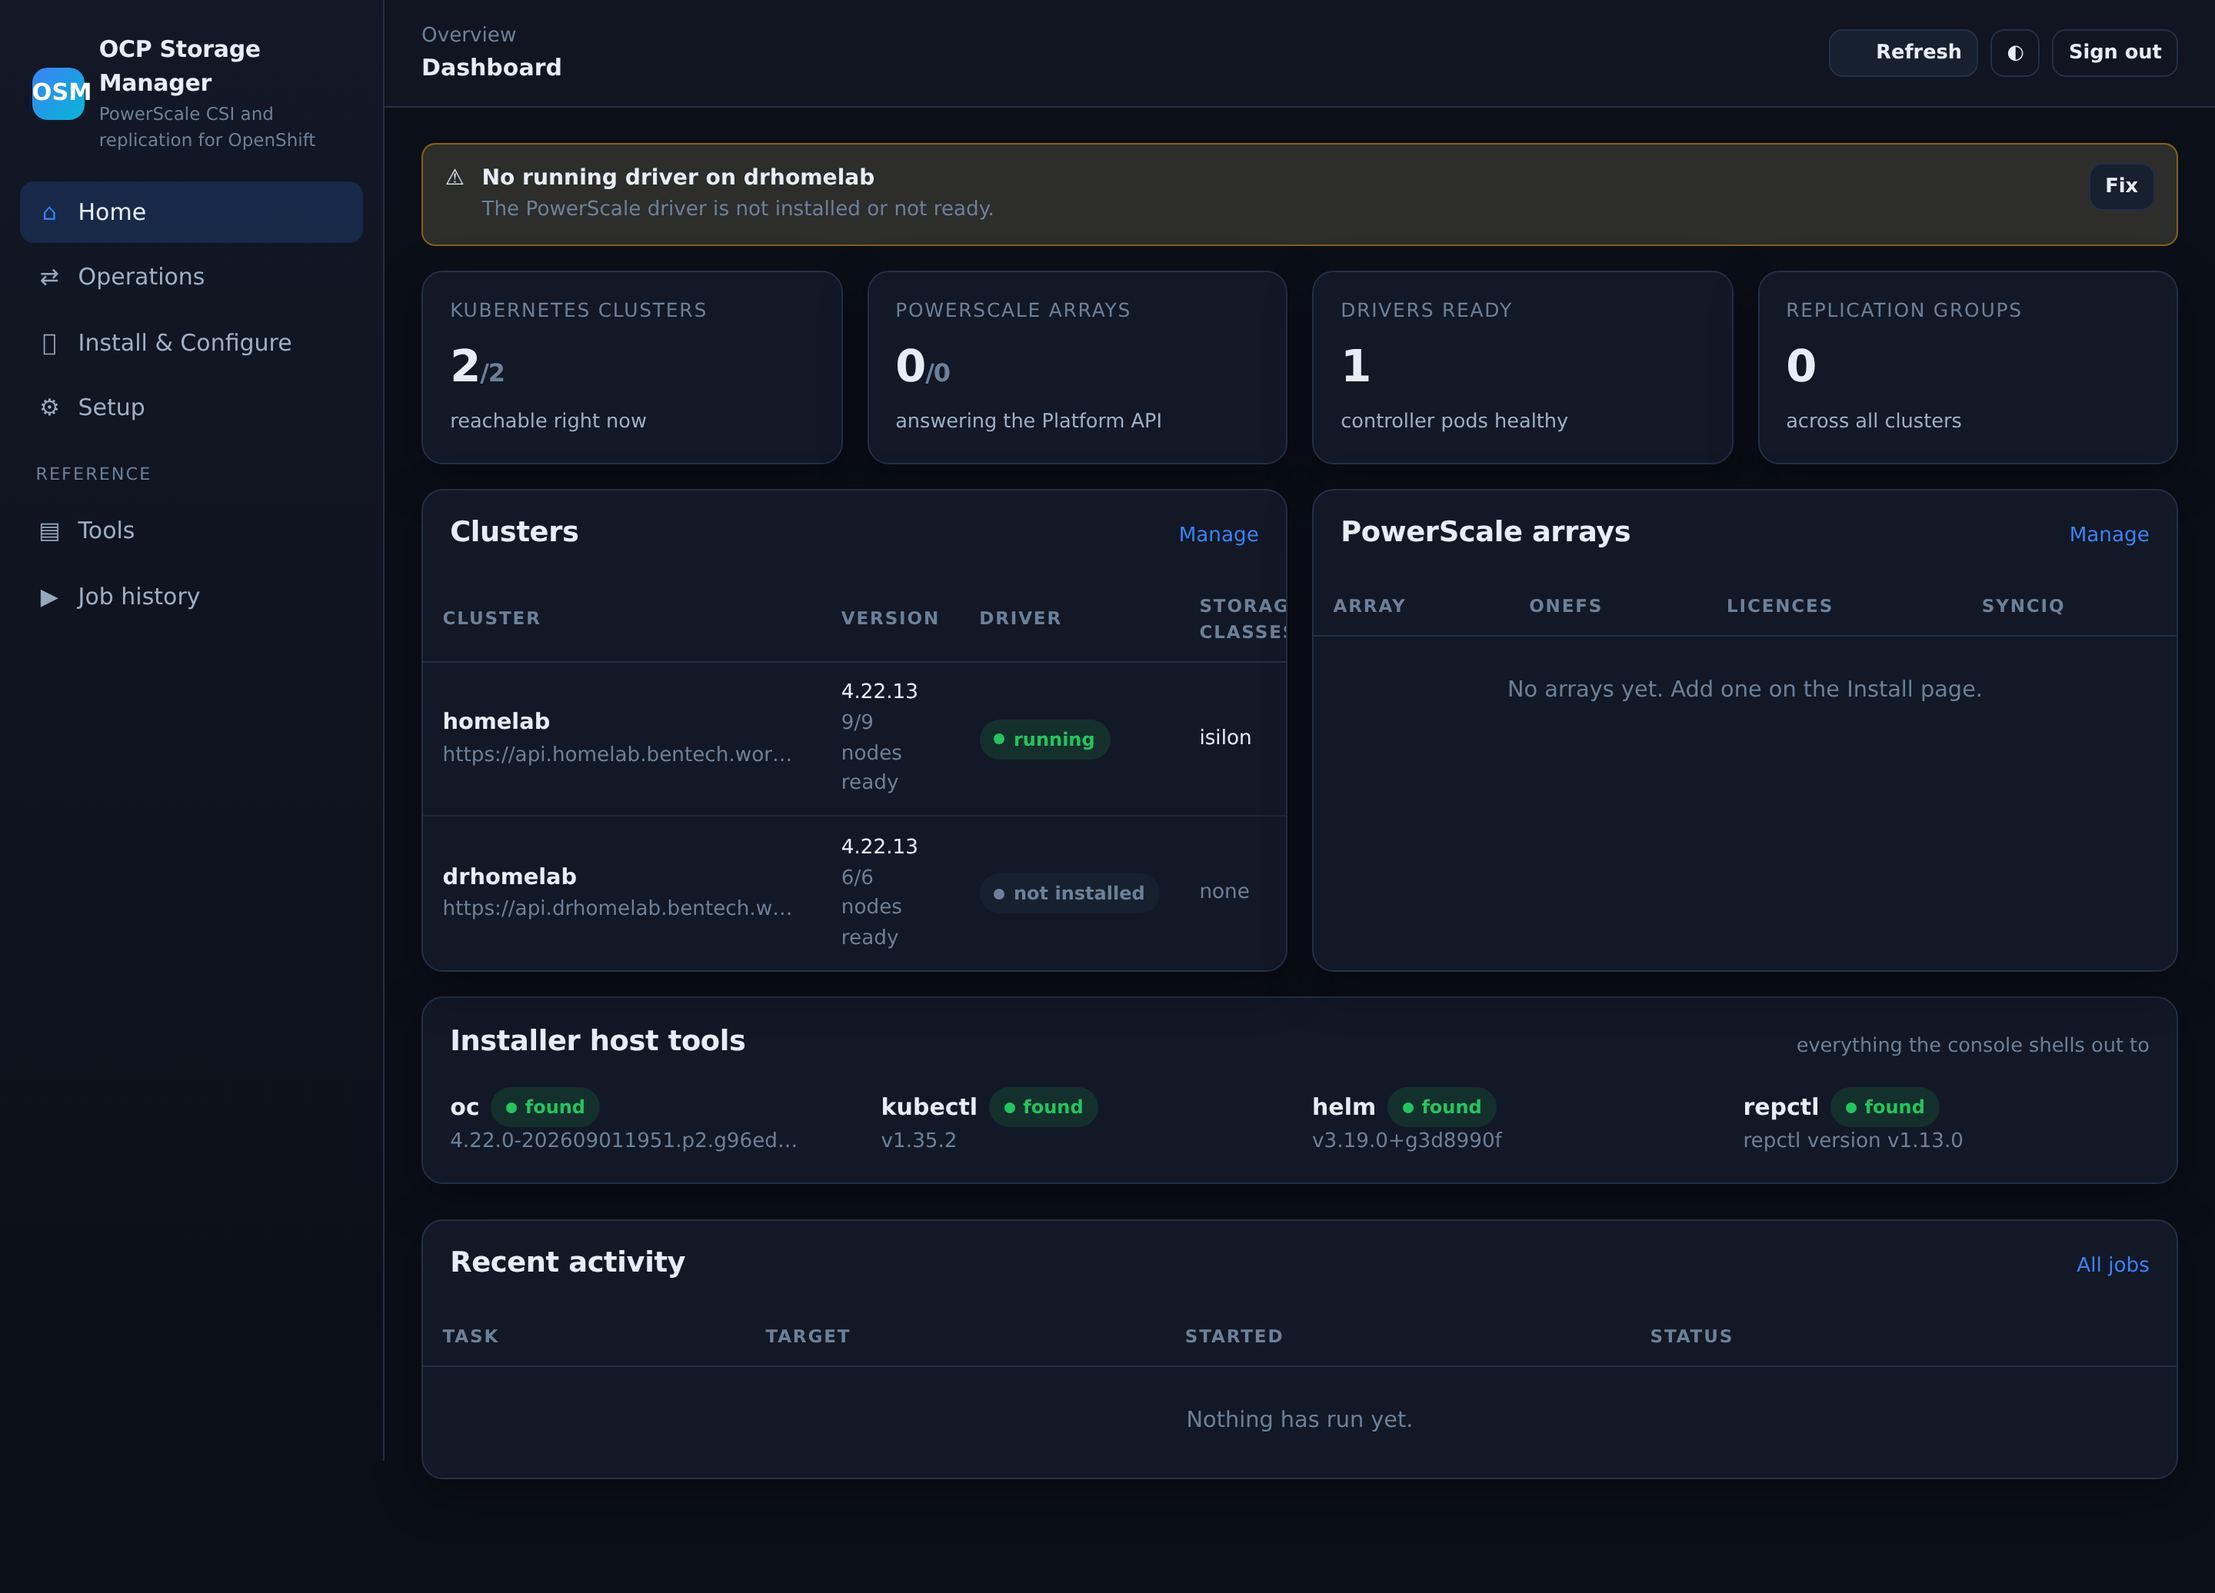
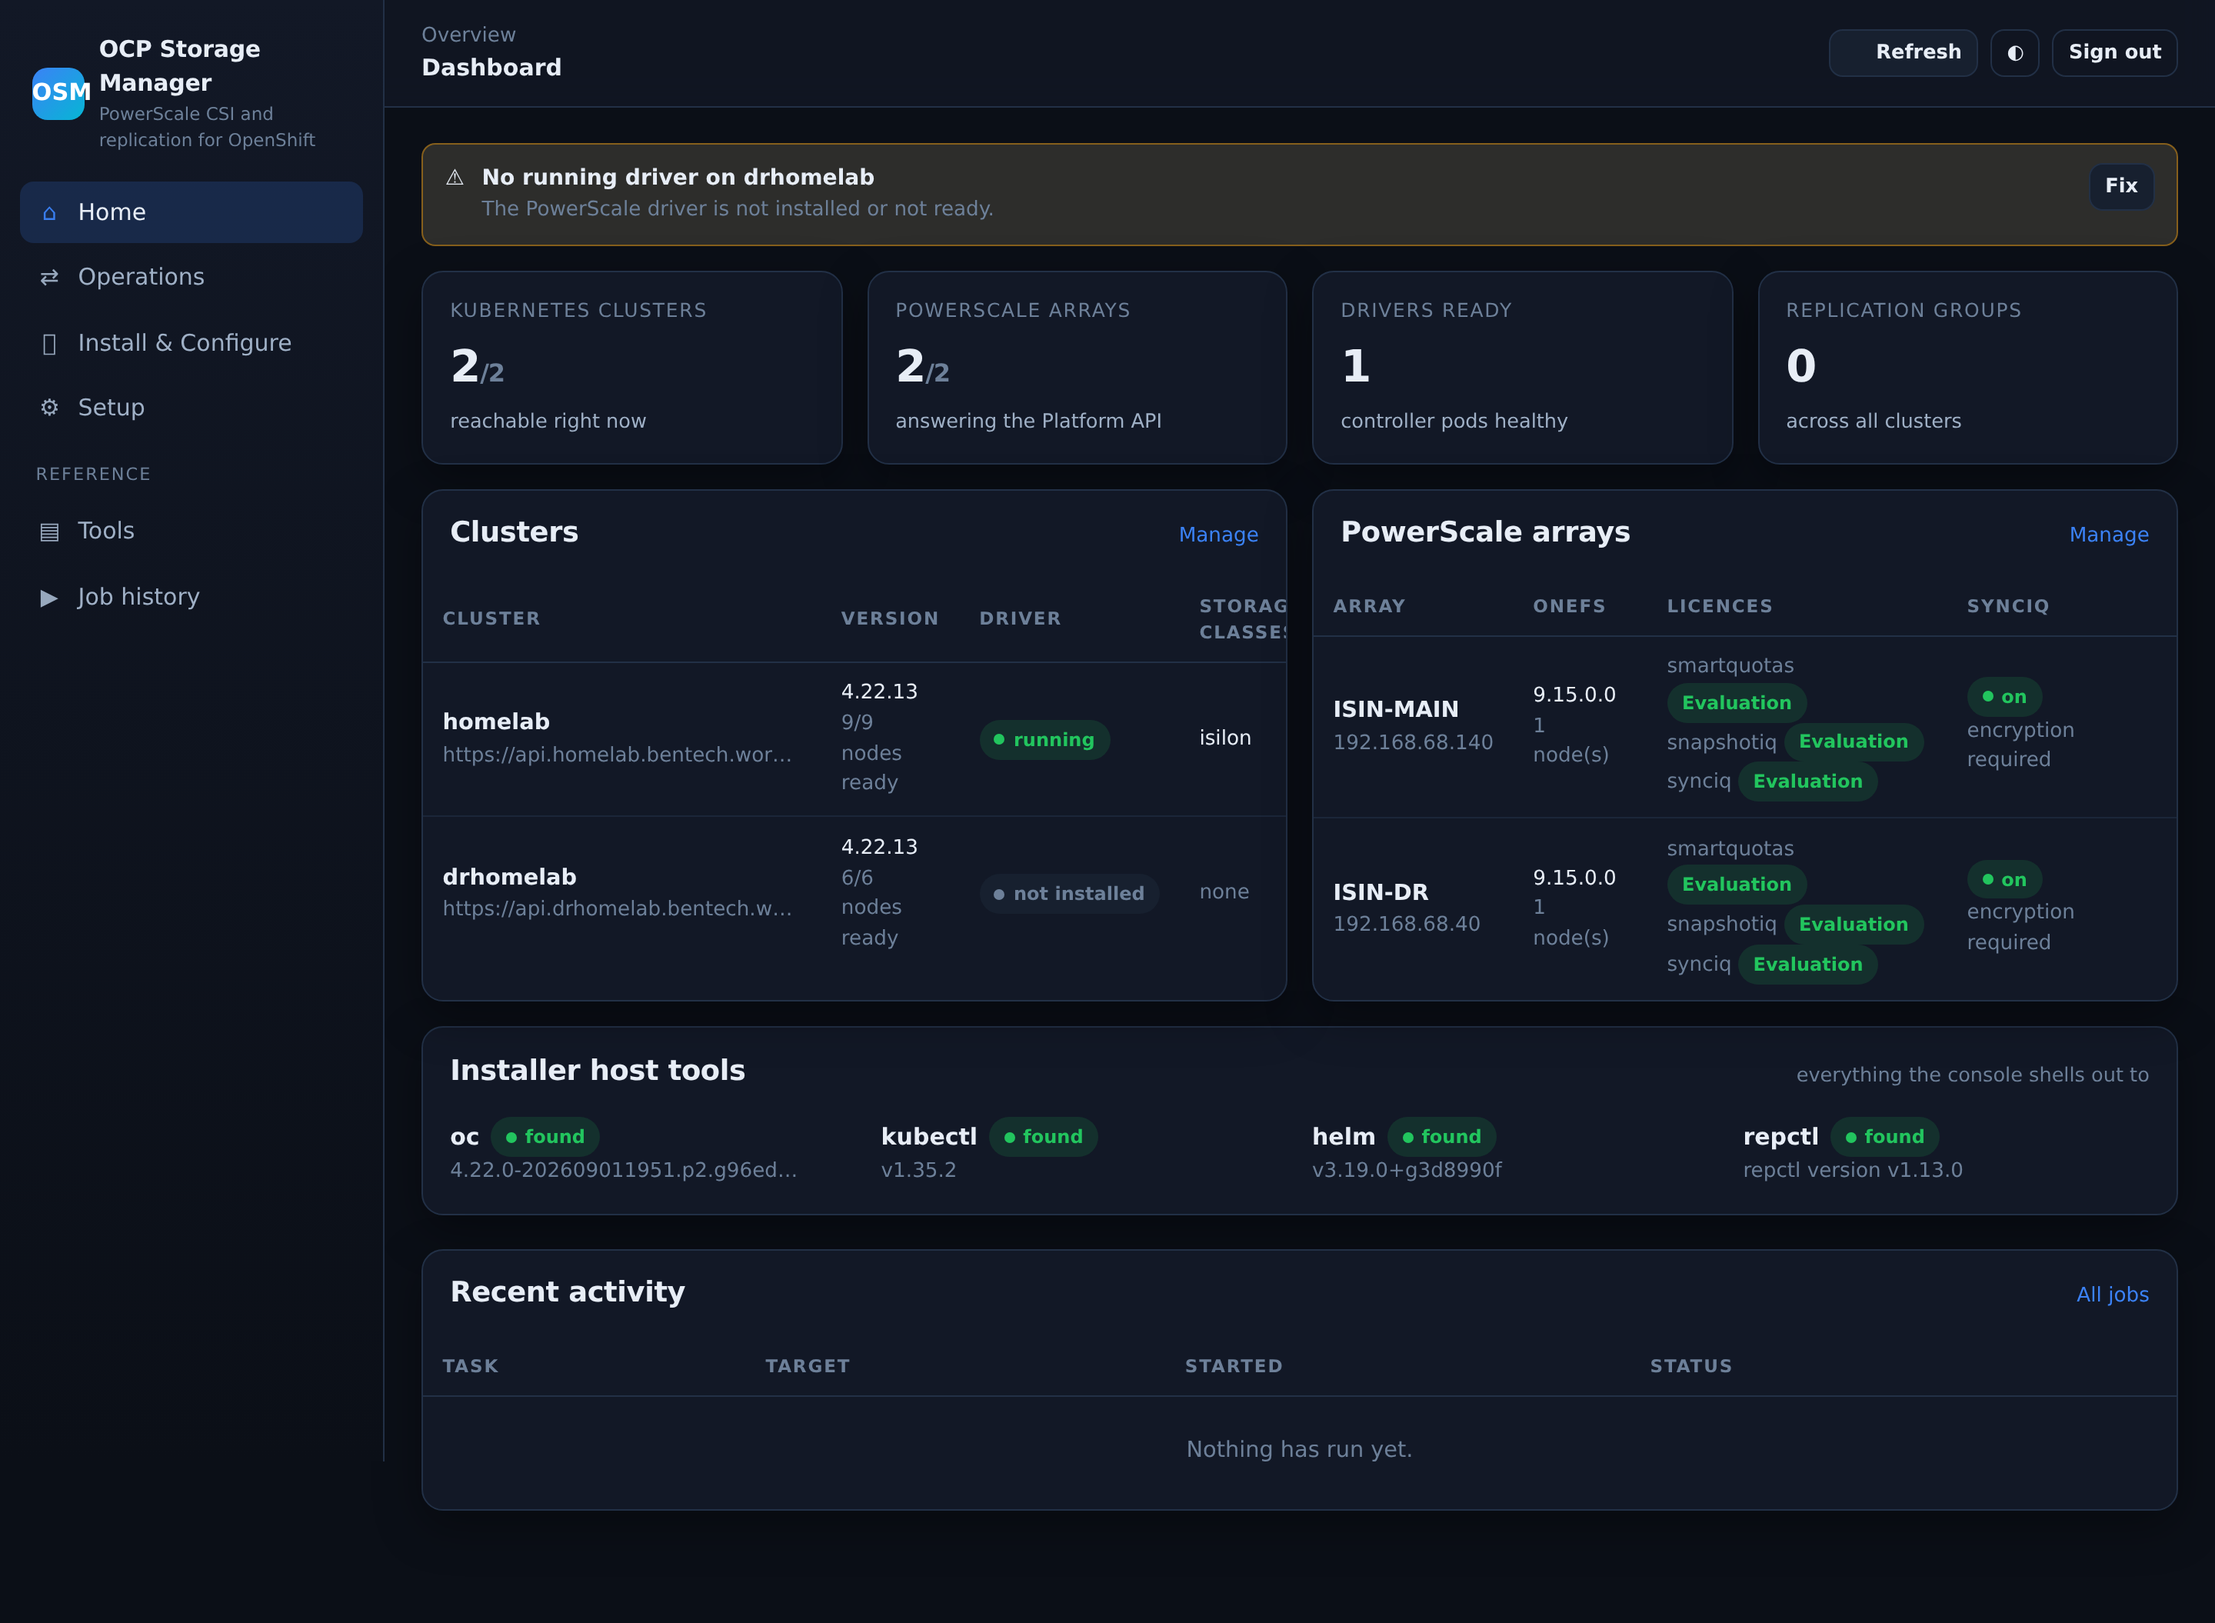
Arrays: choose session or basic Platform API authentication
The array form and osmctl now take the isiAuthType the driver will use, session (1)
or basic (0). The client speaks both, an array that refuses basic says so in words
rather than a bare 401, and the driver install follows the array's setting unless
the form overrides it.

diff --git a/app/app/templates/install.html b/app/app/templates/install.html
@@ -168,13 +168,14 @@
     <div class="card-head"><div><h2>3. PowerScale arrays</h2>
       <div class="sub">Every cluster's credentials secret lists every array, which is what replication requires.</div></div></div>
     <table>
-      <thead><tr><th>Array</th><th>Endpoint</th><th>OneFS</th><th>Base path</th><th>SyncIQ certificate</th><th></th></tr></thead>
+      <thead><tr><th>Array</th><th>Endpoint</th><th>OneFS</th><th>Auth</th><th>Base path</th><th>SyncIQ certificate</th><th></th></tr></thead>
       <tbody>
       {% for a in arrays %}
         <tr>
           <td><strong>{{ a.name }}</strong>{% if a.is_default %} <span class="pill info">default</span>{% endif %}</td>
           <td class="small">{{ a.endpoint }}:{{ a.port }}<div class="muted">{{ a.username }}</div></td>
           <td class="small">{{ a.onefs_version }}</td>
+          <td class="small"><span class="pill {{ 'info' if a.auth_type == 1 else 'mute' }}">{{ a.auth_mode or ("session" if a.auth_type != 0 else "basic") }}</span></td>
           <td class="small">{{ a.isi_path }}
             {% if not a.path_ok %}<span class="pill warn">missing</span>{% endif %}</td>
           <td class="small mono truncate" title="{{ a.replication_certificate_id }}">
@@ -183,7 +184,7 @@
             hx-target="body" data-confirm="Remove {{ a.name }}?">Remove</button></td>
         </tr>
       {% else %}
-        <tr><td colspan="6" class="empty">No arrays yet.</td></tr>
+        <tr><td colspan="7" class="empty">No arrays yet.</td></tr>
       {% endfor %}
       </tbody>
     </table>
@@ -202,6 +203,16 @@
           <div class="field"><label>User</label><input type="text" name="username" placeholder="csiuser" required></div>
           <div class="field"><label>Password</label><input type="password" name="password" required></div>
           <div class="field"><label>Base path</label><input type="text" name="isi_path" value="/ifs/data/csi"></div>
+        </div>
+        <div class="row three">
+          <div class="field"><label>API authentication</label>
+            <select name="auth_type">
+              <option value="1" selected>session, isiAuthType 1</option>
+              <option value="0">basic, isiAuthType 0</option>
+            </select>
+            <div class="hint">OneFS 9.15 and later accept session only. Older releases accept both.
+              The driver install follows whatever works here.</div></div>
+          <div class="field"></div><div class="field"></div>
         </div>
         <div class="check"><input type="checkbox" id="skipcert" name="skip_cert_validation" checked>
           <label for="skipcert">Skip certificate validation, the usual choice for a self signed array</label></div>
@@ -257,8 +268,9 @@
       </div>
       <div class="row three">
         <div class="field"><label>Authentication type</label>
-          <select name="auth_type"><option value="1" selected>session, required by OneFS 9.15</option>
-            <option value="0">basic</option></select></div>
+          <select name="auth_type"><option value="1" selected>session, isiAuthType 1</option>
+            <option value="0">basic, isiAuthType 0</option></select>
+          <div class="hint">Matches the array registration unless you change it.</div></div>
         <div class="field"><label>Array API port</label><input type="number" name="endpoint_port" value="8080"></div>
         <div class="field" style="display:flex;align-items:flex-end">
           <div>

diff --git a/app/app/services/arrays.py b/app/app/services/arrays.py
@@ -1,7 +1,12 @@
 """OneFS Platform API client and the driver secret it feeds.
 
-OneFS 9.15 refuses basic auth on the Platform API, so this client logs in at
-/session/1/session and reuses the isisessid cookie with the isicsrf token.
+The array can be reached two ways, matching the driver's isiAuthType:
+
+  1, session  POST /session/1/session, then the isisessid cookie plus the isicsrf token
+  0, basic    an ordinary Authorization header
+
+OneFS 9.15 refuses basic auth on the Platform API entirely, so session is the default
+and the only thing that works there. Older releases accept both.
 """
 from __future__ import annotations
 
@@ -26,9 +31,12 @@ class ArrayError(RuntimeError):
     pass
 
 
+AUTH_TYPES = {1: "session", 0: "basic"}
+
+
 class OneFS:
     def __init__(self, endpoint: str, port: int, user: str, password: str,
-                 verify: bool = False, timeout: int = 15):
+                 verify: bool = False, timeout: int = 15, auth_type: int = 1):
         host = endpoint.replace("https://", "").replace("http://", "").strip("/")
         self.base = f"https://{host}:{port}"
         self.user, self.password, self.timeout = user, password, timeout
@@ -38,8 +46,23 @@ class OneFS:
             self.ctx.verify_mode = ssl.CERT_NONE
         self.cookie: str | None = None
         self.csrf: str | None = None
+        self.auth_type = int(auth_type)
+        self.mode = AUTH_TYPES.get(self.auth_type, "session")
 
     # -- transport ------------------------------------------------------------
+    def _auth(self, req: urllib.request.Request) -> None:
+        if self.mode == "basic":
+            import base64
+            token = base64.b64encode(f"{self.user}:{self.password}".encode()).decode()
+            req.add_header("Authorization", f"Basic {token}")
+            return
+        if not self.cookie:
+            self.login()
+        if self.cookie:
+            req.add_header("Cookie", self.cookie)
+            req.add_header("X-CSRF-Token", self.csrf or "")
+            req.add_header("Referer", self.base)
+
     def _req(self, method: str, path: str, body: Any = None, auth: str = "session") -> tuple[int, Any]:
         url = self.base + path
         data = json.dumps(body).encode() if body is not None else None
@@ -48,12 +71,7 @@ class OneFS:
         if data is not None:
             req.add_header("Content-Type", "application/json")
         if auth == "session":
-            if not self.cookie:
-                self.login()
-            if self.cookie:
-                req.add_header("Cookie", self.cookie)
-                req.add_header("X-CSRF-Token", self.csrf or "")
-                req.add_header("Referer", self.base)
+            self._auth(req)
         try:
             with urllib.request.urlopen(req, timeout=self.timeout, context=self.ctx) as resp:
                 payload = resp.read()
@@ -92,10 +110,21 @@ class OneFS:
     # -- discovery ------------------------------------------------------------
     def inspect(self) -> dict:
         """Everything the UI shows about an array, in one round trip set."""
-        out: dict = {"reachable": False, "errors": []}
+        out: dict = {"reachable": False, "errors": [], "auth_type": self.auth_type,
+                     "auth_mode": self.mode}
         st, ident = self.get("/platform/3/cluster/identity")
         out["name"] = (ident or {}).get("name", "") if st == 200 else ""
-        self.login()
+        if self.mode == "session":
+            self.login()
+        else:                                   # basic: prove it on an endpoint that needs rights
+            st, data = self.get("/platform/3/cluster/config")
+            if st == 401:
+                raise ArrayError("this array refuses basic authentication; OneFS 9.15 and later "
+                                 "only accept session authentication, so choose session "
+                                 "(isiAuthType 1)")
+            if st == 403:
+                raise ArrayError("basic authentication worked but the user lacks "
+                                 "ISI_PRIV_LOGIN_PAPI")
         out["reachable"] = True
         st, cfg = self.get("/platform/3/cluster/config")
         if st == 200:
@@ -144,11 +173,7 @@ class OneFS:
     def create_path(self, isi_path: str, mode: str = "0777") -> bool:
         url = self.base + "/namespace" + urllib.parse.quote(isi_path) + "?recursive=true"
         req = urllib.request.Request(url, method="PUT")
-        if not self.cookie:
-            self.login()
-        req.add_header("Cookie", self.cookie or "")
-        req.add_header("X-CSRF-Token", self.csrf or "")
-        req.add_header("Referer", self.base)
+        self._auth(req)
         req.add_header("x-isi-ifs-target-type", "container")
         req.add_header("x-isi-ifs-access-control", mode)
         try:

diff --git a/app/app/routers/install.py b/app/app/routers/install.py
@@ -219,9 +219,9 @@ async def add_array(request: Request, endpoint: str = Form(...), username: str =
                     password: str = Form(...), port: int = Form(8080),
                     isi_path: str = Form("/ifs/data/csi"), access_zone: str = Form("System"),
                     skip_cert_validation: str = Form("on"), is_default: str = Form(""),
-                    create_path: str = Form("")):
+                    create_path: str = Form(""), auth_type: int = Form(1)):
     client = OneFS(endpoint, port, username, password,
-                   verify=(skip_cert_validation != "on"))
+                   verify=(skip_cert_validation != "on"), auth_type=int(auth_type))
     try:
         info = client.inspect()
     except ArrayError as exc:
@@ -234,6 +234,7 @@ async def add_array(request: Request, endpoint: str = Form(...), username: str =
         "id": aid, "name": info.get("name") or aid, "endpoint": endpoint, "port": port,
         "username": username, "password": password, "isi_path": isi_path,
         "access_zone": access_zone, "skip_cert_validation": skip_cert_validation == "on",
+        "auth_type": int(auth_type), "auth_mode": info.get("auth_mode", "session"),
         "is_default": is_default == "on", "added": store.now(),
         "replication_certificate_id": info.get("synciq_cluster_certificate_id", ""),
         "onefs_version": info.get("onefs_version", ""), "path_ok": path_ok,
@@ -241,7 +242,8 @@ async def add_array(request: Request, endpoint: str = Form(...), username: str =
     store.update(lambda s: s["arrays"].update({aid: record}))
     inventory.invalidate()
     missing = ", ".join(info.get("missing_privileges", []))
-    notice = f"Array {record['name']} added."
+    notice = (f"Array {record['name']} added, reached with {record['auth_mode']} "
+              f"authentication (isiAuthType {record['auth_type']}).")
     if missing:
         notice += f" Missing privileges: {missing}."
     if not path_ok:
@@ -292,6 +294,9 @@ async def install_driver(request: Request):
     # Every cluster's secret lists every array: the driver resolves the remote end of a
     # SyncIQ pair from its own config, so both ends must be present on both sites.
     default_array = form.get("default_array") or (arrays[0]["id"] if arrays else "")
+    home = state["arrays"].get(default_array, {})
+    if not form.get("auth_type") and home.get("auth_type") is not None:
+        opts["auth_type"] = int(home["auth_type"])        # follow the array registration
     peers = [c for c in state["clusters"].values() if c["id"] != cid]
     opts["target_cluster_ids"] = [c["id"] for c in peers]
 

diff --git a/app/README.md b/app/README.md
@@ -40,8 +40,11 @@ written to `data/logs/`.
    roles, secrets and the rest. *Export service account* creates a service account with a
    non-expiring token, binds it to cluster-admin and writes a kubeconfig the console uses from
    then on, so nothing later depends on a session that expires.
-3. **Arrays.** Register each PowerScale array. The console reads its version, zones, licences,
-   privileges and SyncIQ certificate, and can create the base path.
+3. **Arrays.** Register each PowerScale array. Choose how the Platform API is reached, session
+   (`isiAuthType: 1`) or basic (`isiAuthType: 0`); OneFS 9.15 and later accept session only, and
+   the console says so plainly if basic is refused. It then reads the array's version, zones,
+   licences, privileges and SyncIQ certificate, and can create the base path. The driver install
+   follows the array's setting unless you override it.
 4. **Driver.** Choose Operator or Helm, and standalone or replication. The credentials secret
    always lists every registered array, because the driver resolves the far end of a SyncIQ pair
    from its own configuration.

diff --git a/README.md b/README.md
@@ -75,7 +75,7 @@ osmctl status                       # tools, clusters, arrays, repctl store
 osmctl doctor                       # health check of the whole installation
 osmctl cluster add --id cluster-1 --server api.ocp.example.com --user kubeadmin
 osmctl cluster serviceaccount --id cluster-1
-osmctl array add --endpoint 10.0.0.10 --user csiuser --create-path
+osmctl array add --endpoint 10.0.0.10 --user csiuser --create-path --auth-type 1
 osmctl driver install --cluster cluster-1 --mode replication --method operator
 osmctl sc create --name isilon-replicated --cluster cluster-1 --array main \
     --replicated --target-cluster cluster-2 --target-array dr --rpo Five_Minutes
